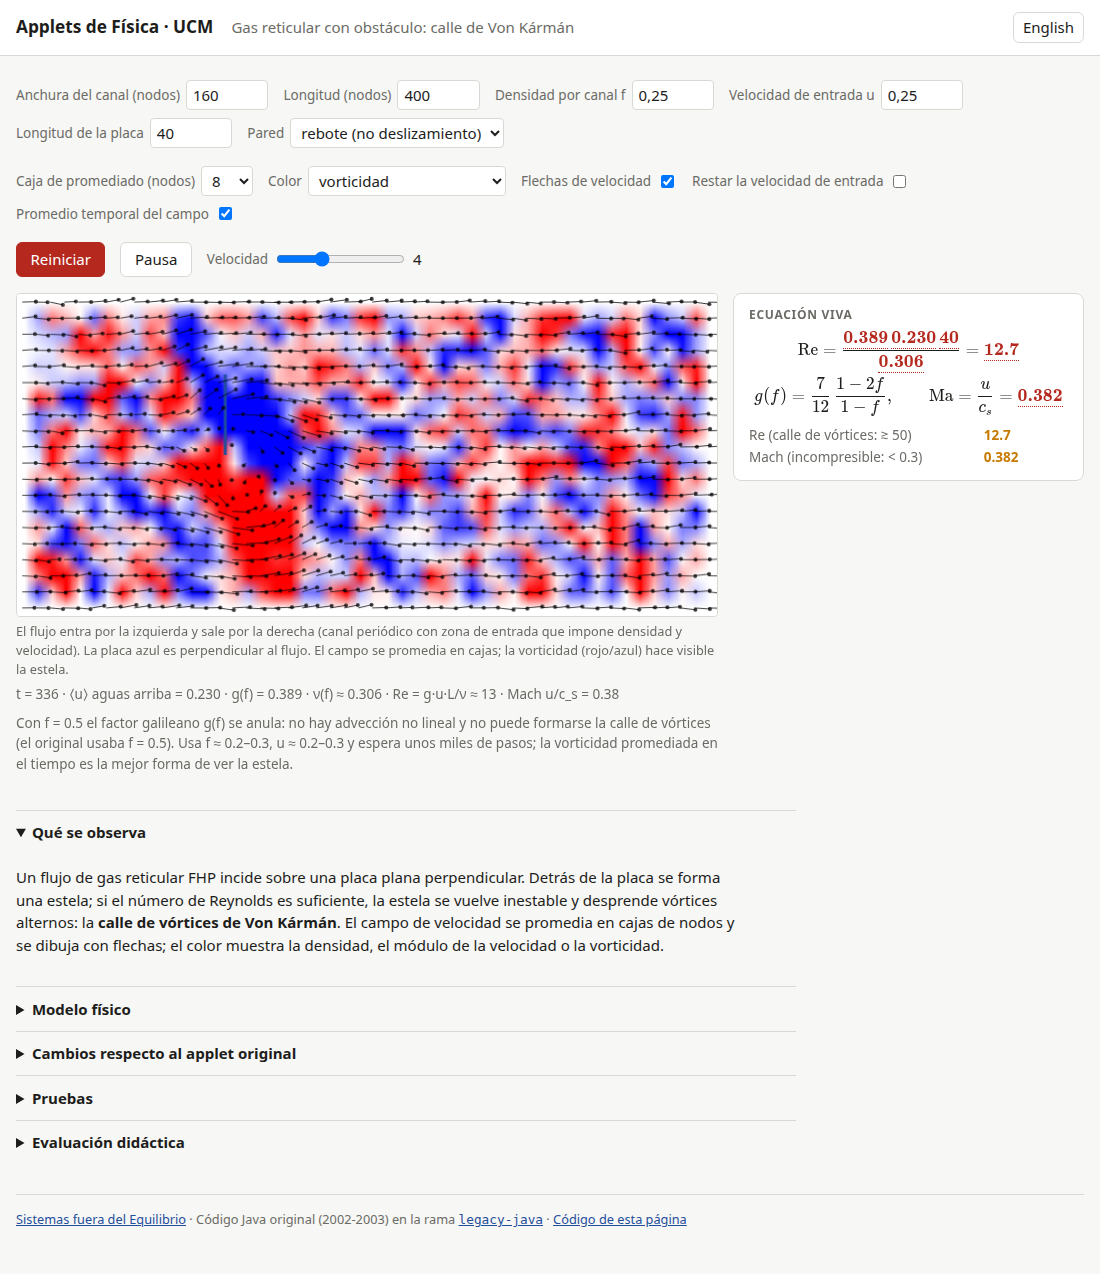
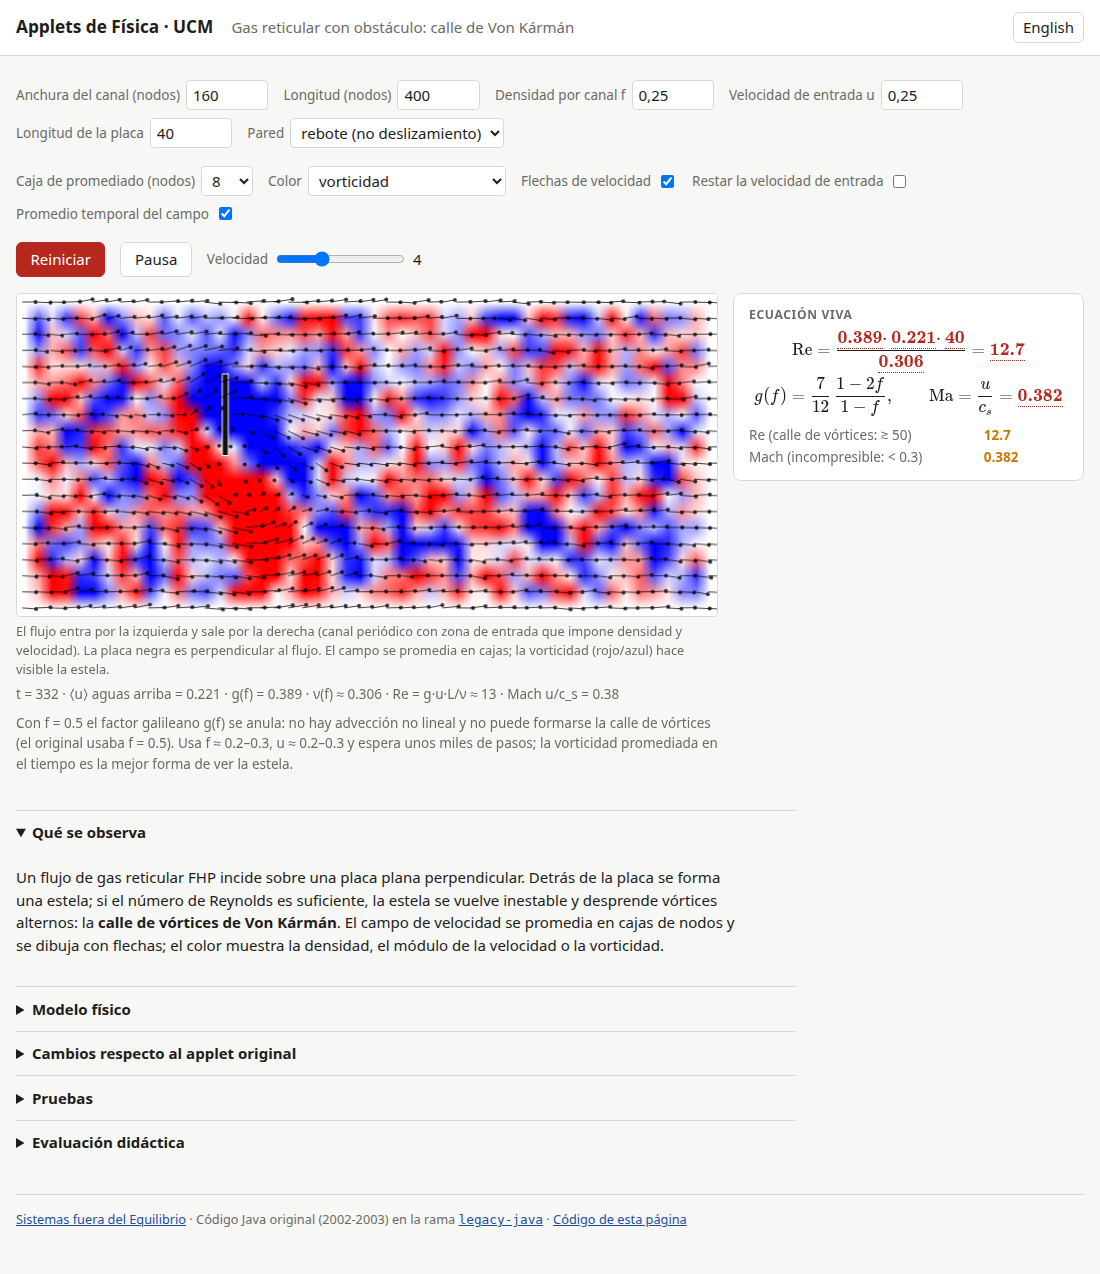
von-karman: plate drawn as a solid dark bar with outline; explicit products in Re

diff --git a/applets/von-karman/applet.js b/applets/von-karman/applet.js
@@ -16,7 +16,7 @@ i18n.register({
     'vk.wall.bounceback': 'rebote (no deslizamiento)', 'vk.wall.specular': 'especular (deslizamiento)',
     'vk.box': 'Caja de promediado (nodos)', 'vk.color': 'Color', 'vk.color.density': 'densidad', 'vk.color.speed': 'módulo de la velocidad', 'vk.color.vorticity': 'vorticidad',
     'vk.arrows': 'Flechas de velocidad', 'vk.relative': 'Restar la velocidad de entrada', 'vk.smooth': 'Promedio temporal del campo',
-    'vk.cap': 'El flujo entra por la izquierda y sale por la derecha (canal periódico con zona de entrada que impone densidad y velocidad). La placa azul es perpendicular al flujo. El campo se promedia en cajas; la vorticidad (rojo/azul) hace visible la estela.',
+    'vk.cap': 'El flujo entra por la izquierda y sale por la derecha (canal periódico con zona de entrada que impone densidad y velocidad). La placa negra es perpendicular al flujo. El campo se promedia en cajas; la vorticidad (rojo/azul) hace visible la estela.',
     'vk.readout': 't = {t} · ⟨u⟩ aguas arriba = {uup} · g(f) = {g} · ν(f) ≈ {nu} · Re = g·u·L/ν ≈ {re} · Mach u/c_s = {mach}',
     'vk.hint': 'Con f = 0.5 el factor galileano g(f) se anula: no hay advección no lineal y no puede formarse la calle de vórtices (el original usaba f = 0.5). Usa f ≈ 0.2–0.3, u ≈ 0.2–0.3 y espera unos miles de pasos; la vorticidad promediada en el tiempo es la mejor forma de ver la estela.',
     'vk.eq.g': 'factor galileano g(f) = (7/12)(1−2f)/(1−f)', 'vk.eq.u': 'velocidad media medida aguas arriba', 'vk.eq.L': 'longitud de la placa', 'vk.eq.nu': 'viscosidad cinemática FHP-III', 'vk.eq.re': 'número de Reynolds efectivo', 'vk.eq.ma': 'número de Mach u/c_s',
@@ -27,7 +27,7 @@ i18n.register({
     'vk.wall.bounceback': 'bounce-back (no slip)', 'vk.wall.specular': 'specular (slip)',
     'vk.box': 'Averaging box (nodes)', 'vk.color': 'Colour', 'vk.color.density': 'density', 'vk.color.speed': 'speed', 'vk.color.vorticity': 'vorticity',
     'vk.arrows': 'Velocity arrows', 'vk.relative': 'Subtract inflow velocity', 'vk.smooth': 'Time-average the field',
-    'vk.cap': 'Flow enters on the left and leaves on the right (periodic channel with an inflow zone imposing density and velocity). The blue plate is perpendicular to the flow. The field is box-averaged; vorticity (red/blue) makes the wake visible.',
+    'vk.cap': 'Flow enters on the left and leaves on the right (periodic channel with an inflow zone imposing density and velocity). The black plate is perpendicular to the flow. The field is box-averaged; vorticity (red/blue) makes the wake visible.',
     'vk.readout': 't = {t} · ⟨u⟩ upstream = {uup} · g(f) = {g} · ν(f) ≈ {nu} · Re = g·u·L/ν ≈ {re} · Mach u/c_s = {mach}',
     'vk.hint': 'At f = 0.5 the Galilean factor g(f) vanishes: there is no nonlinear advection and no vortex street can form (the original used f = 0.5). Use f ≈ 0.2–0.3, u ≈ 0.2–0.3 and wait a few thousand steps; time-averaged vorticity is the best way to see the wake.',
     'vk.eq.g': 'Galilean factor g(f) = (7/12)(1−2f)/(1−f)', 'vk.eq.u': 'measured mean upstream velocity', 'vk.eq.L': 'plate length', 'vk.eq.nu': 'FHP-III kinematic viscosity', 'vk.eq.re': 'effective Reynolds number', 'vk.eq.ma': 'Mach number u/c_s',
@@ -60,7 +60,7 @@ export function mount(root, { root: base = '../..' } = {}) {
   const eq = liveEquation(ui.panel, {
     title: 'eq.title',
     equations: [
-      { tex: '\\mathrm{Re} = \\frac{\\htmlId{g}{g(f)}\\,\\htmlId{u}{u}\\,\\htmlId{L}{L}}{\\htmlId{nu}{\\nu(f)}} = \\htmlId{re}{\\mathrm{Re}}', slots: { g: { label: 'vk.eq.g' }, u: { label: 'vk.eq.u' }, L: { label: 'vk.eq.L' }, nu: { label: 'vk.eq.nu' }, re: { label: 'vk.eq.re' } } },
+      { tex: '\\mathrm{Re} = \\frac{\\htmlId{g}{g(f)}\\cdot\\htmlId{u}{u}\\cdot\\htmlId{L}{L}}{\\htmlId{nu}{\\nu(f)}} = \\htmlId{re}{\\mathrm{Re}}', slots: { g: { label: 'vk.eq.g' }, u: { label: 'vk.eq.u' }, L: { label: 'vk.eq.L' }, nu: { label: 'vk.eq.nu' }, re: { label: 'vk.eq.re' } } },
       { tex: 'g(f) = \\frac{7}{12}\\,\\frac{1-2f}{1-f},\\qquad \\mathrm{Ma} = \\frac{u}{c_s} = \\htmlId{ma}{\\mathrm{Ma}}', slots: { ma: { label: 'vk.eq.ma' } } },
     ],
     indicators: [{ key: 're', label: 'vk.ind.re' }, { key: 'ma', label: 'vk.ind.ma' }],
@@ -111,9 +111,11 @@ export function mount(root, { root: base = '../..' } = {}) {
     plot.clear();
     plot.ctx.imageSmoothingEnabled = true;
     plot.drawImage(off, 0, 0, ny * H.S3, nx);
-    plot.color('#1f4e9c'); plot.lineWidth(3);
-    const sx = (ny - 1 - state.plateY) * H.S3;
-    plot.line(sx, H.physX(state.plateX0, state.plateY, nx), sx, H.physX(state.plateX0, state.plateY, nx) + state.plateLen);
+    // Plate: solid dark bar (one lattice row thick) with a white outline so it stands out on any colour map.
+    const sx = (ny - 1 - state.plateY) * H.S3, py0 = H.physX(state.plateX0, state.plateY, nx);
+    const thick = Math.max(2.5, 1.5 * H.S3);
+    plot.color('#ffffff'); plot.lineWidth(2); plot.rect(sx - thick / 2, py0, thick, state.plateLen, false);
+    plot.color('#111111'); plot.rect(sx - thick / 2, py0, thick, state.plateLen, true);
     plot.lineWidth(1);
     if (pArrows.get()) {
       plot.color('rgba(0,0,0,0.75)');
